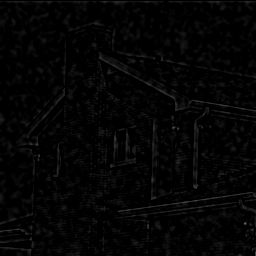
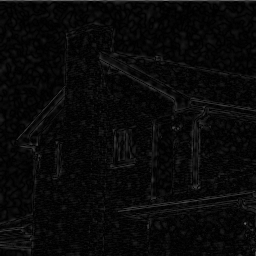
fix Gaussian filter

diff --git a/python/GaussianFilter.py b/python/GaussianFilter.py
@@ -18,7 +18,7 @@ def main():
 
     denoisedImage  = cv2.GaussianBlur(noisyImage, (kernelDiam, kernelDiam), k * sigma)
 
-    diff = inputImage - denoisedImage
+    diff = cv2.absdiff(inputImage, denoisedImage)
 
     cv2.imshow("input Image", inputImage)
     cv2.imshow("noisy Image", noisyImage)
